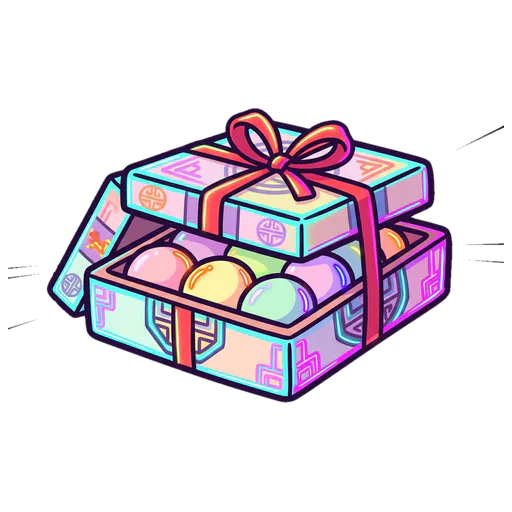
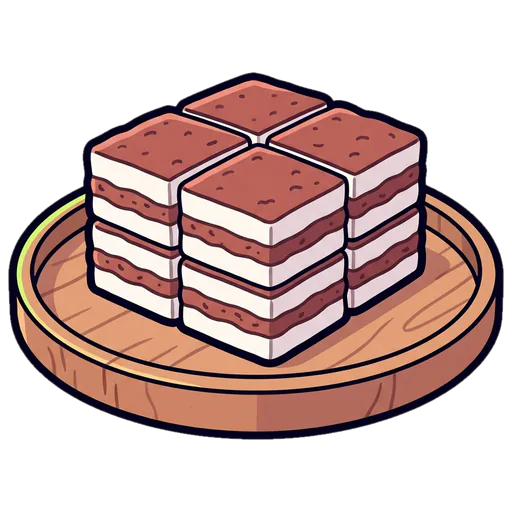
fix: hazard props that read as pickups (rice cake, call bubble, calculator, tambourine, magnifier)

diff --git a/public-office/art/SOURCES.md b/public-office/art/SOURCES.md
@@ -518,3 +518,18 @@ blank, with no text (`sign-stand` shows only a checkbox icon, and the `taxi` roo
   sparkles) read as a coin pickup, so it was regenerated as a navy/red enamel shield lapel pin with a silver pin-back:
   nano_banana_flash, `$PROP a big shield-shaped company lapel pin badge seen at an angle, deep navy enamel face with a thick red enamel ring border and a polished silver metal rim, a simple white abstract leaf emblem in the middle, and the silver pin-back clasp clearly visible sticking out behind it. Not round, not gold, no coin, no star, no sparkles. It flies toward the LEFT, with a few short grey speed swooshes trailing on its right side.`. The detached sparkles on `prop-magnifier` were removed locally by keeping only
   the largest connected part and re-containing it in 512×512 with an 8 px margin.
+
+
+## Round-2 prop fixes (2026-11-05, 9 credits; part-2 total **149 cr**, balance 1203.83)
+
+Hazards must never look like pickups, so this round uses no sparkles, no glow and no gift/coin shapes. All are nano_banana_flash
+1k, cut out as props (512×512, 8 px margin), `cwebp -q 82`.
+`$PROP2` = `$STYLE (without manga speed lines). Single game obstacle prop icon, one object only, centered, large and bold with a very thick dark outline, solid flat colors, on a pure flat white background, no shadow, no ground, no people, no hands, absolutely no writing, no letters, no numbers, no sparkles, no glow, no shine stars, no motion lines. `
+
+| file | why | prompt (after `$PROP2 The object:`) |
+|---|---|---|
+| `prop-rice-cake.webp` | the pink ribboned box read as the gift-box pickup | a low wide wooden serving tray holding a stacked block of Korean layered rice cake (sirutteok): thick layers of white rice cake and reddish-brown red-bean powder, cut into big square slices, seen slightly from above. No box, no ribbon, no gift wrapping. |
+| `prop-call-bubble.webp` | new: "진짜 5분" (core id `call-bubble`, was latte-bubble, a round blue glowing disc) | a big rectangular comic speech bubble with slightly rounded corners and a short pointed tail at the bottom left, white fill with a very thick dark navy ink rim, inside it only a simple dark analog clock icon. Flat, no glow, not round. |
+| `prop-calculator.webp` | new: "계산기 탁탁" (was the gold corp-card) | a chunky old-fashioned desk calculator, dark grey body with black square buttons and one orange button, a plain blank dark-green display, slight three-quarter view. |
+| `prop-tambourine.webp` | new: "탬버린" (was the necktie); red wood, matte silver jingles, not gold | a round wooden tambourine with a red painted wooden frame, a cream drum skin, and several small dull silver metal jingles set in slots around the frame, slight three-quarter view, matte, not gold. |
+| `prop-magnifier.webp` | too thin, sat on the head like a headband; 1st retry looked like a mirror on a stand (rejected, 1.5 cr) | a giant chunky classic magnifying glass tilted diagonally, its very thick round black rim and wide pale-blue lens at the upper left, a very thick long brown wooden handle with a black metal collar going down to the lower right, one simple white curved reflection stroke on the lens, a big magnified cartoon eye with a raised eyebrow visible inside the lens. Bold, heavy, simple silhouette. |
